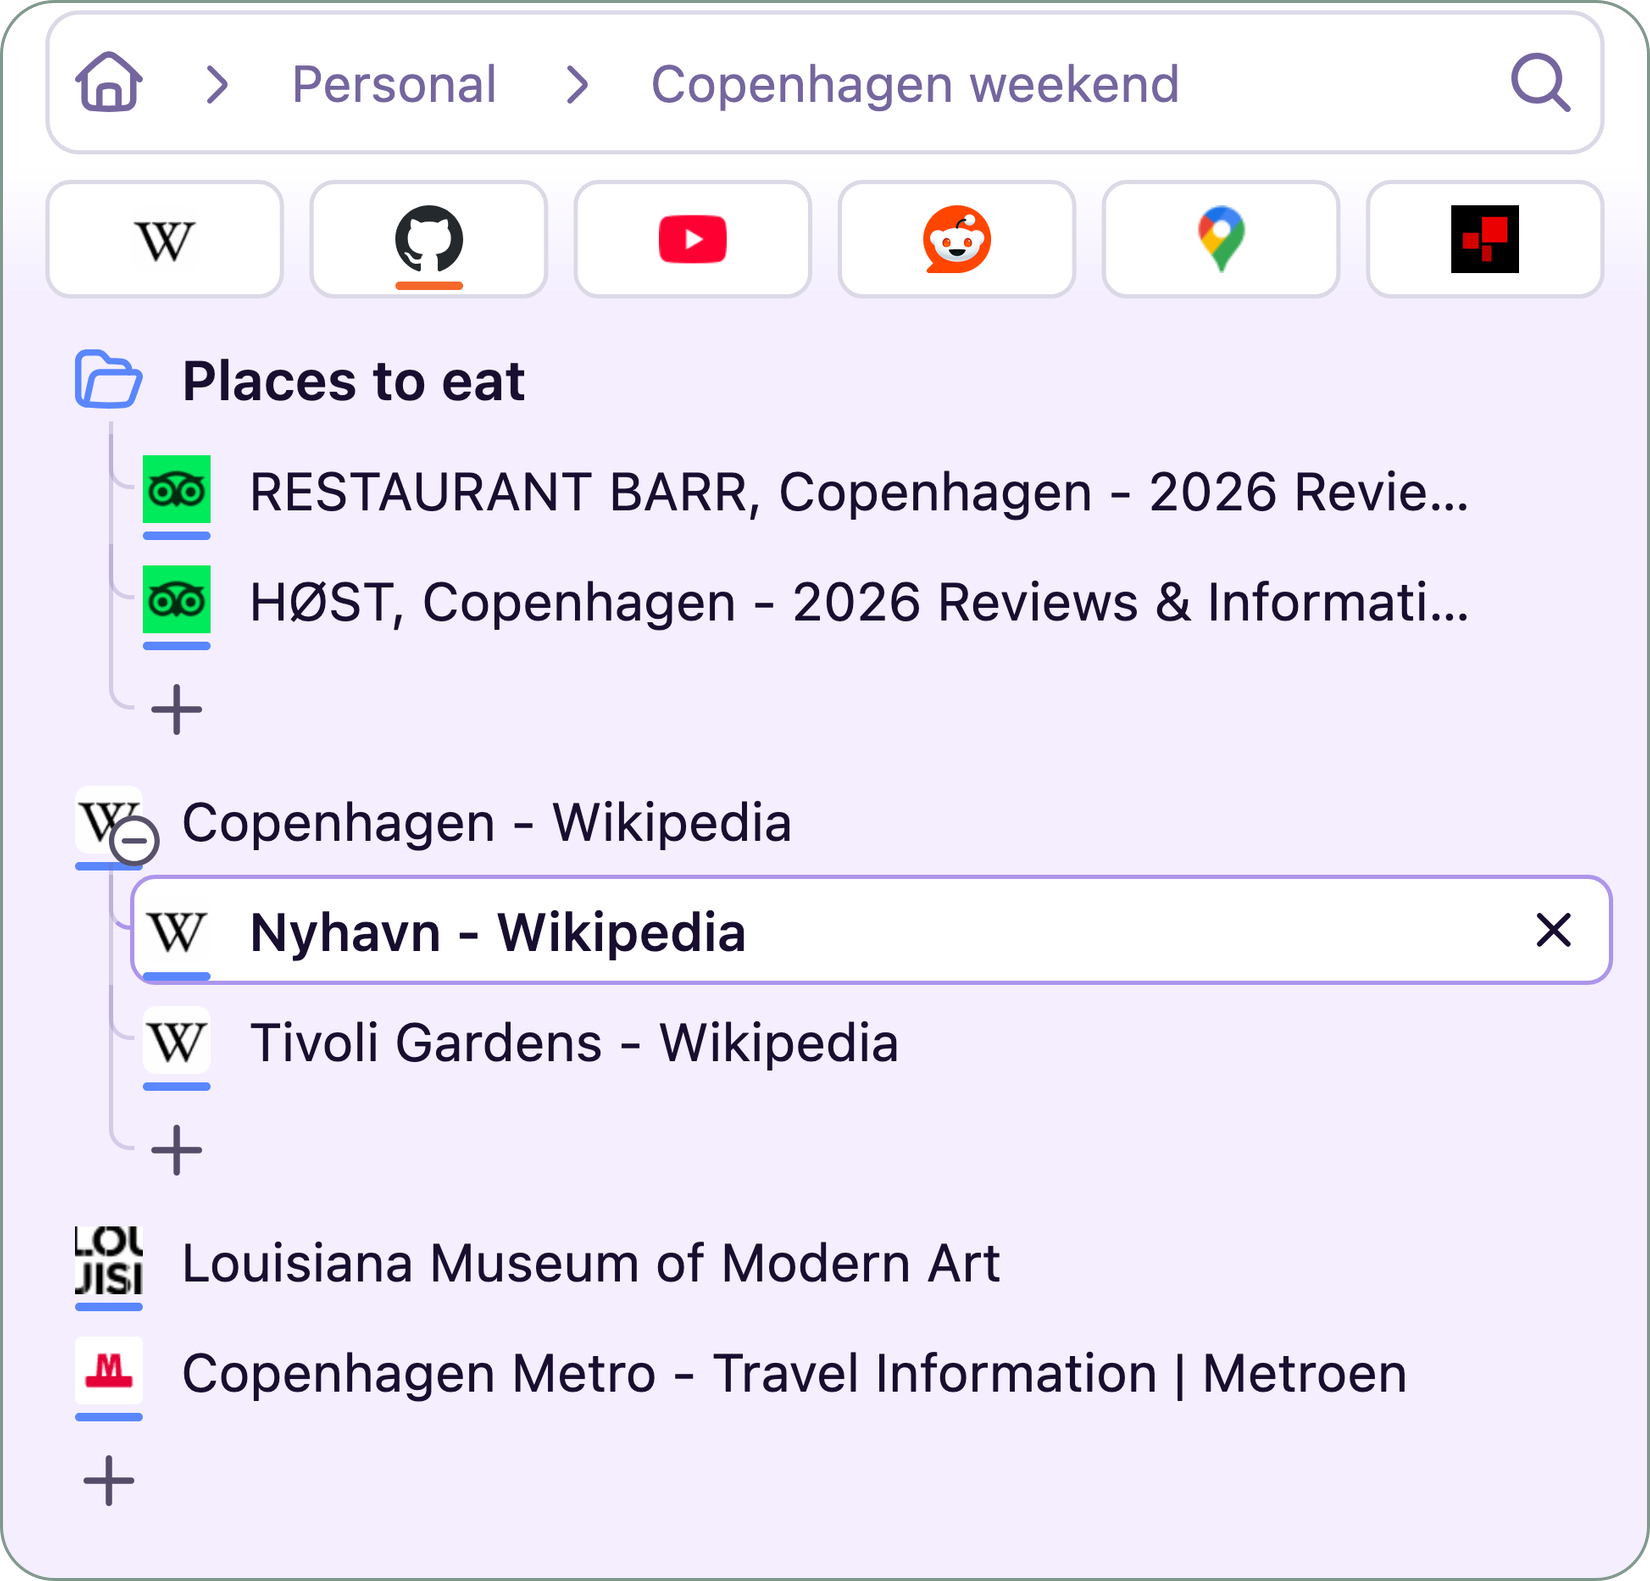
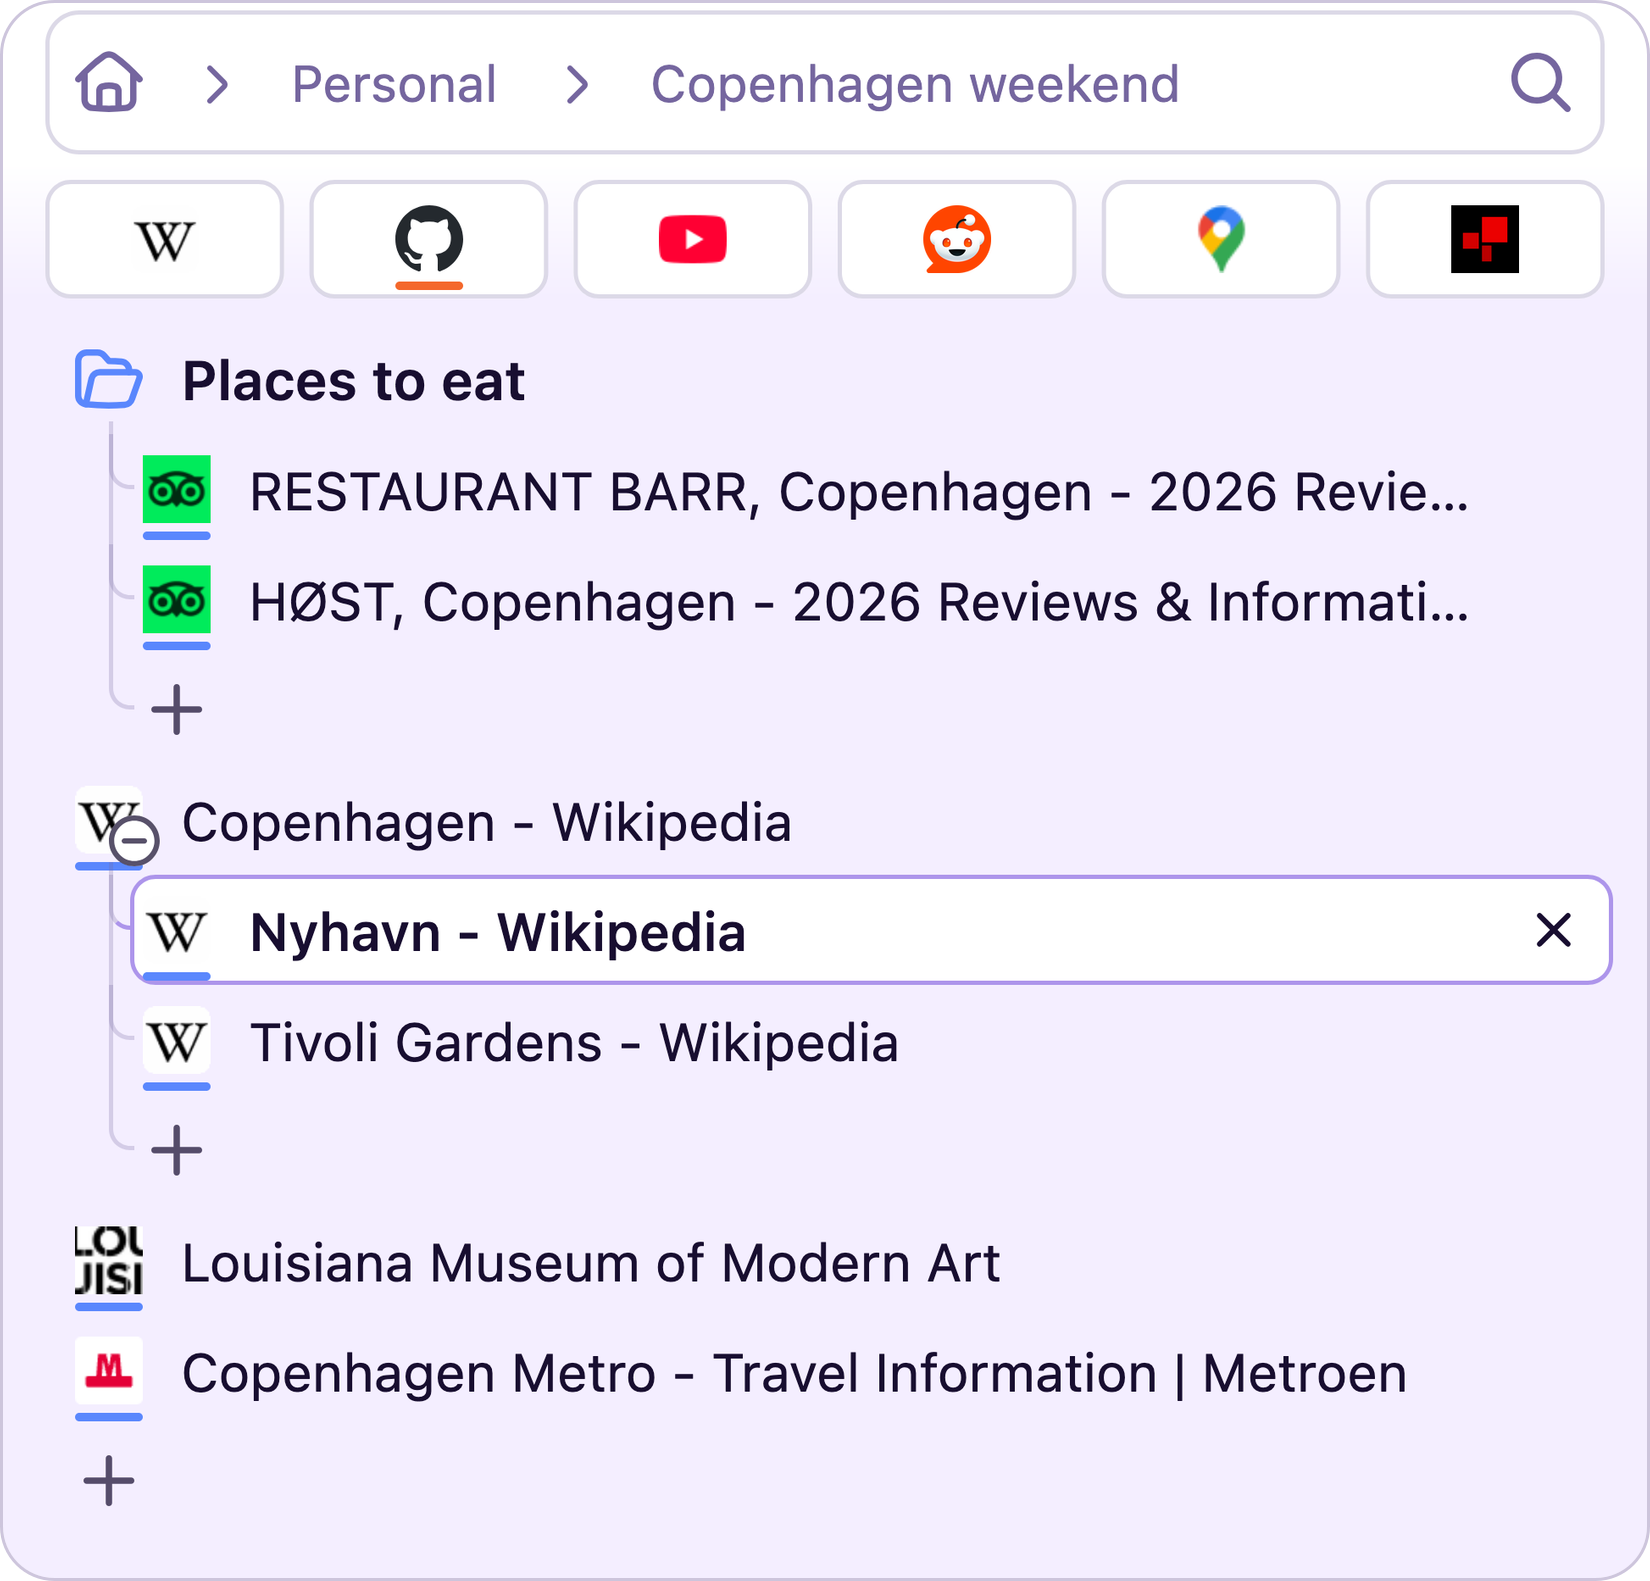
Update screenshot borders

Changed region(s): [[0.9891, 0.0, 1.0, 0.9918], [0.0, 0.9918, 0.9891, 1.0]]

diff --git a/scripts/export-screenshots.js b/scripts/export-screenshots.js
@@ -2,7 +2,7 @@ import assert from 'node:assert/strict';
 import { mkdir, readFile, writeFile } from 'node:fs/promises';
 import { join } from 'node:path';
 import sharp from 'sharp';
-import { fitScreenshotImage } from './screenshot-layout.js';
+import { fitScreenshotImage, screenshotFrameColor } from './screenshot-layout.js';
 
 const fixture = JSON.parse(
   await readFile(process.argv[4] || 'assets/screenshots/screenshots.json', 'utf8'),
@@ -98,11 +98,11 @@ for (const [index, shot] of fixture.shots.entries()) {
     .webp({ lossless: true, effort: 6 })
     .toFile(join(destination, shot.file.replace('.png', '.webp')));
 
-  // Retain the existing one-pixel green frame on standalone website images.
+  // A quiet lavender-grey frame follows the screenshot's light or dark palette.
   const uiWidth = px(image.width + 2);
   const uiHeight = px(imageHeight + 2);
   const frame = Buffer.from(
-    `<svg width="${uiWidth}" height="${uiHeight}"><rect x="${outputScale / 2}" y="${outputScale / 2}" width="${uiWidth - outputScale}" height="${uiHeight - outputScale}" rx="${px(17.5)}" fill="none" stroke="#81998d" stroke-width="${outputScale}"/></svg>`,
+    `<svg width="${uiWidth}" height="${uiHeight}"><rect x="${outputScale / 2}" y="${outputScale / 2}" width="${uiWidth - outputScale}" height="${uiHeight - outputScale}" rx="${px(17.5)}" fill="none" stroke="${screenshotFrameColor(dark)}" stroke-width="${outputScale}"/></svg>`,
   );
   const standalone = await sharp({
     create: { width: uiWidth, height: uiHeight, channels: 4, background: '#00000000' },

diff --git a/scripts/screenshot-output.js b/scripts/screenshot-output.js
@@ -2,6 +2,7 @@ import assert from 'node:assert/strict';
 import { mkdir, readFile, rename, rm, writeFile } from 'node:fs/promises';
 import { join } from 'node:path';
 import sharp from 'sharp';
+import { screenshotFrameColor } from './screenshot-layout.js';
 
 export function screenshotFiles(fixture) {
   return fixture.shots.flatMap(({ file }) => [
@@ -43,10 +44,17 @@ export async function verifyScreenshots(fixture, sources, destination) {
     assert.equal(ui.info.height, h + outputScale * 2);
     assert.equal(ui.data[3], 0, `${uiFile}: corners must be transparent`);
     const border = (ui.info.width + Math.floor(ui.info.width / 2)) * 4;
+    const borderColor = screenshotFrameColor(shot.composition.dark);
     assert.deepEqual(
       [...ui.data.subarray(border, border + 4)],
-      [129, 153, 141, 255],
-      `${uiFile}: missing fine green border`,
+      [
+        ...borderColor
+          .slice(1)
+          .match(/../g)
+          .map((value) => parseInt(value, 16)),
+        255,
+      ],
+      `${uiFile}: missing ${borderColor} frame`,
     );
     // Exclude only the rounded mask and frame. The entire rectangular interior
     // must match the real capture after the exporter's normal downsampling.

diff --git a/scripts/screenshot-layout.js b/scripts/screenshot-layout.js
@@ -1,5 +1,7 @@
 import assert from 'node:assert/strict';
 
+export const screenshotFrameColor = (dark) => (dark ? '#625873' : '#cdc5dc');
+
 // Rectangles come from Firefox; only the presentation crop changes, never the UI.
 export function resolveScreenshotCrop(framing, measured, sourceOrigin) {
   let left = 0,

diff --git a/DEVELOPMENT.md b/DEVELOPMENT.md
@@ -226,7 +226,8 @@ npm run screenshots:refresh
 
 This refreshes all seven promotional screenshots and their transparent `-ui` variants in
 `assets/screenshots/`, in PNG and lossless WebP. It preserves the existing copy, rounded
-corners, fine green border and output widths used by the README and website. To inspect
+corners and output widths used by the README and website. The fine lavender-grey frame
+uses a light or dark shade to suit each screenshot. To inspect
 the result before replacing tracked images:
 
 ```sh
@@ -271,7 +272,7 @@ sidebar, capture fails instead of silently cutting it off. Increase the fixture'
 and capture height or revise the scene if necessary.
 
 Before publishing any images, the runner checks stable frames, source dimensions, crop
-bounds, transparent corners, the green border, lossless WebP pixels and that the UI
+bounds, transparent corners, the matching frame colour, lossless WebP pixels and that the UI
 interior matches the native capture after downsampling. It also rejects inputs edited
 during capture. Failed captures or exports leave the current images in place. Captures
 are repeatable with the same Firefox version, OS and installed fonts; platform or browser
